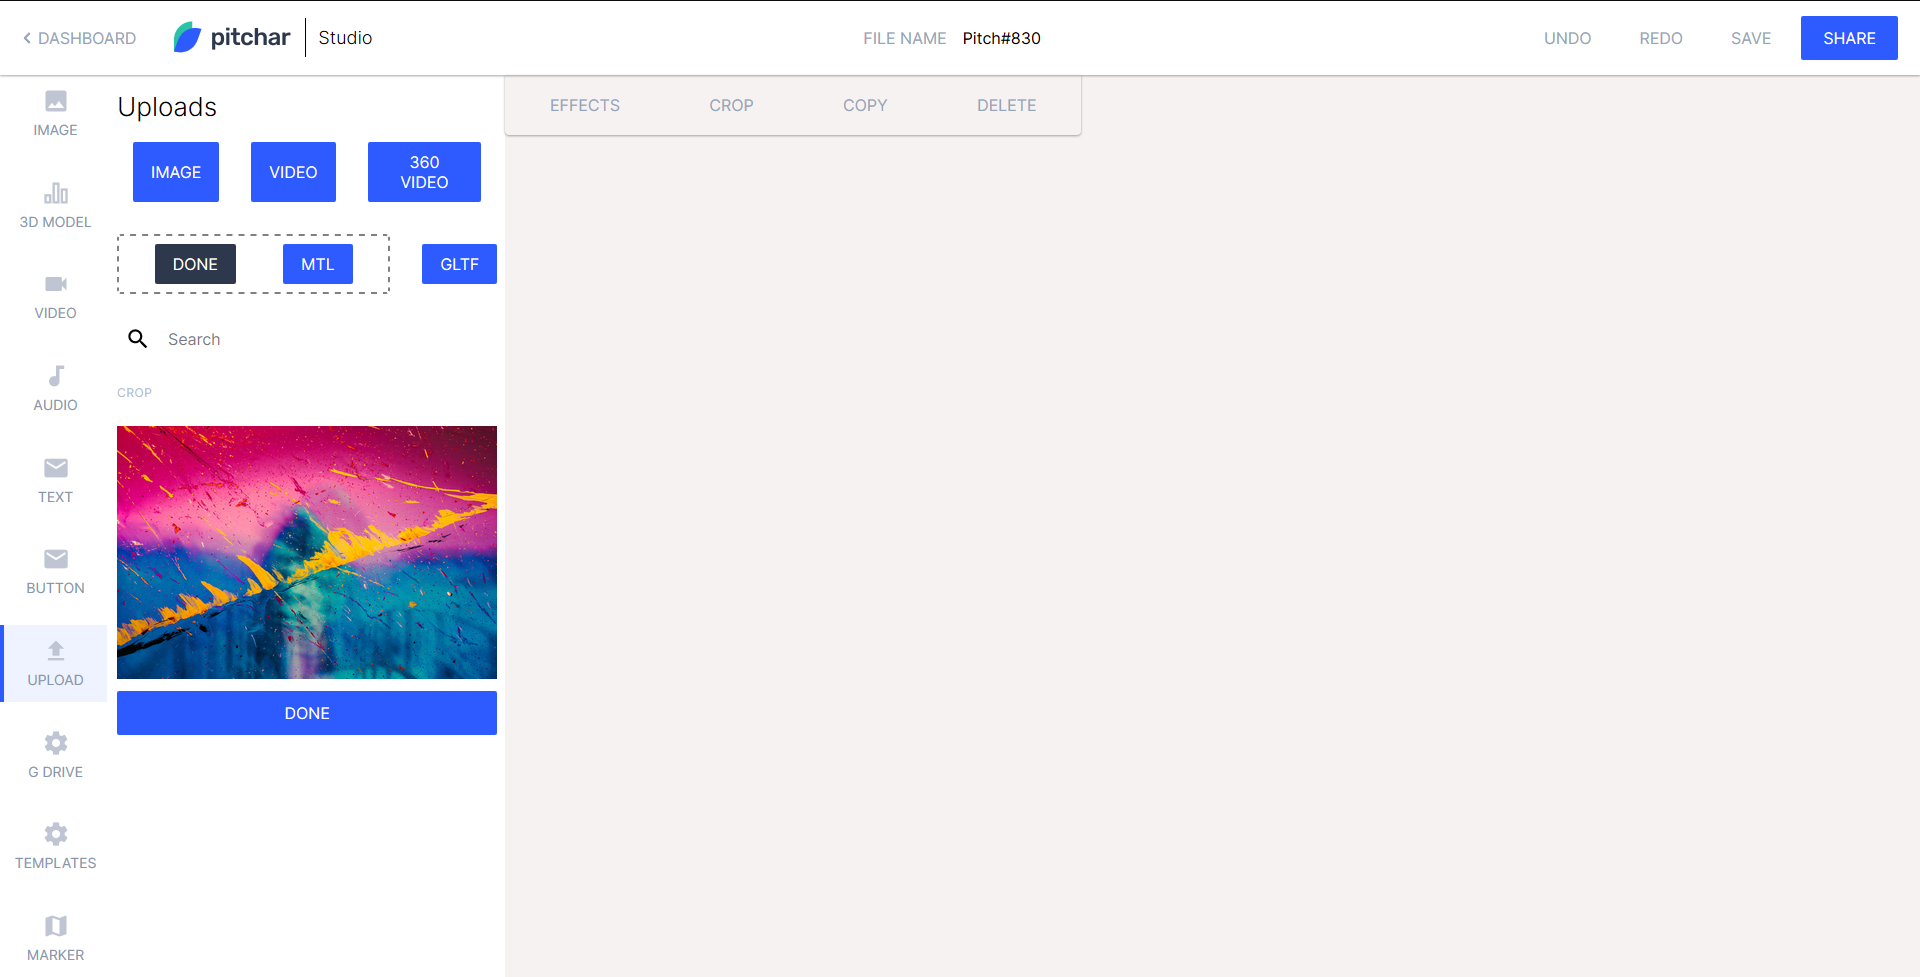
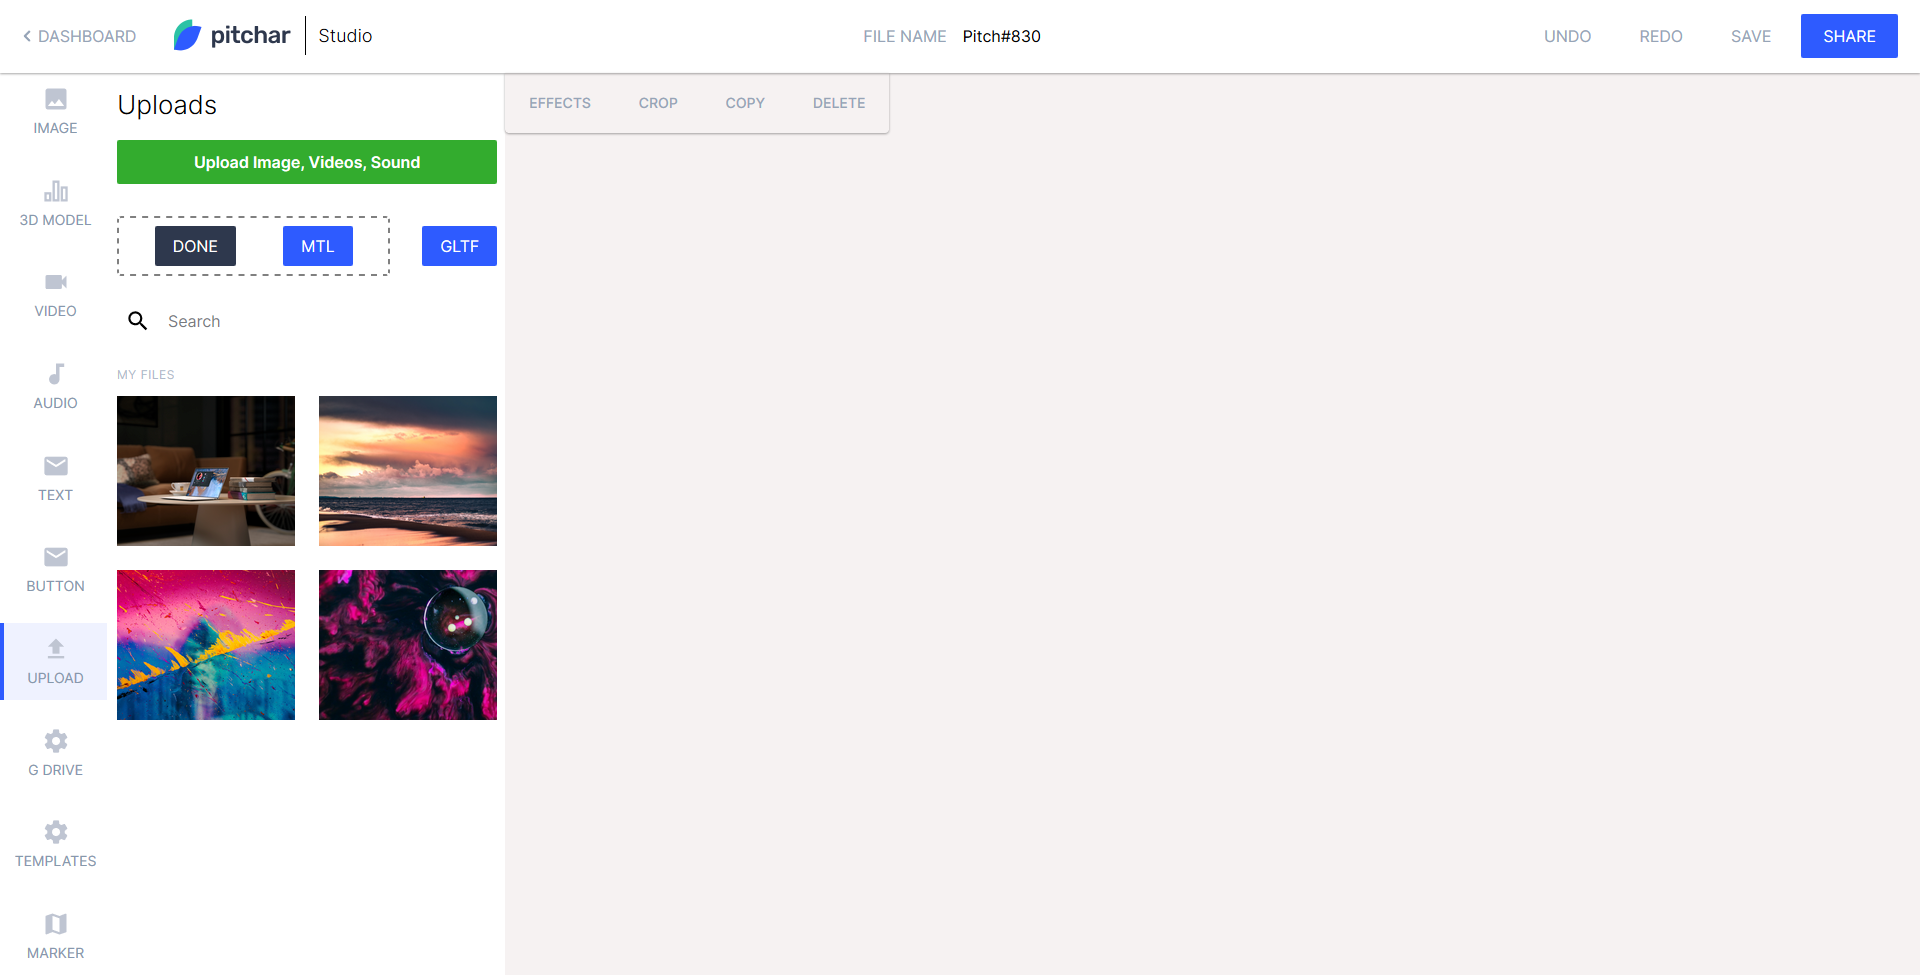
another minor tweak for edit panel size

diff --git a/src/modules/three-d-edit-panel/scss/three-d-edit-panel.scss b/src/modules/three-d-edit-panel/scss/three-d-edit-panel.scss
@@ -4,7 +4,7 @@
   position: absolute;
   top: 0;
   left: 0;
-  width: 30vw;
+  width: 20vw;
   height: 60px;
   border-radius: 0 0 4px 4px;
   box-shadow: 0 1px 3px rgba(0,0,0,0.12), 0 1px 2px rgba(0,0,0,0.24);
